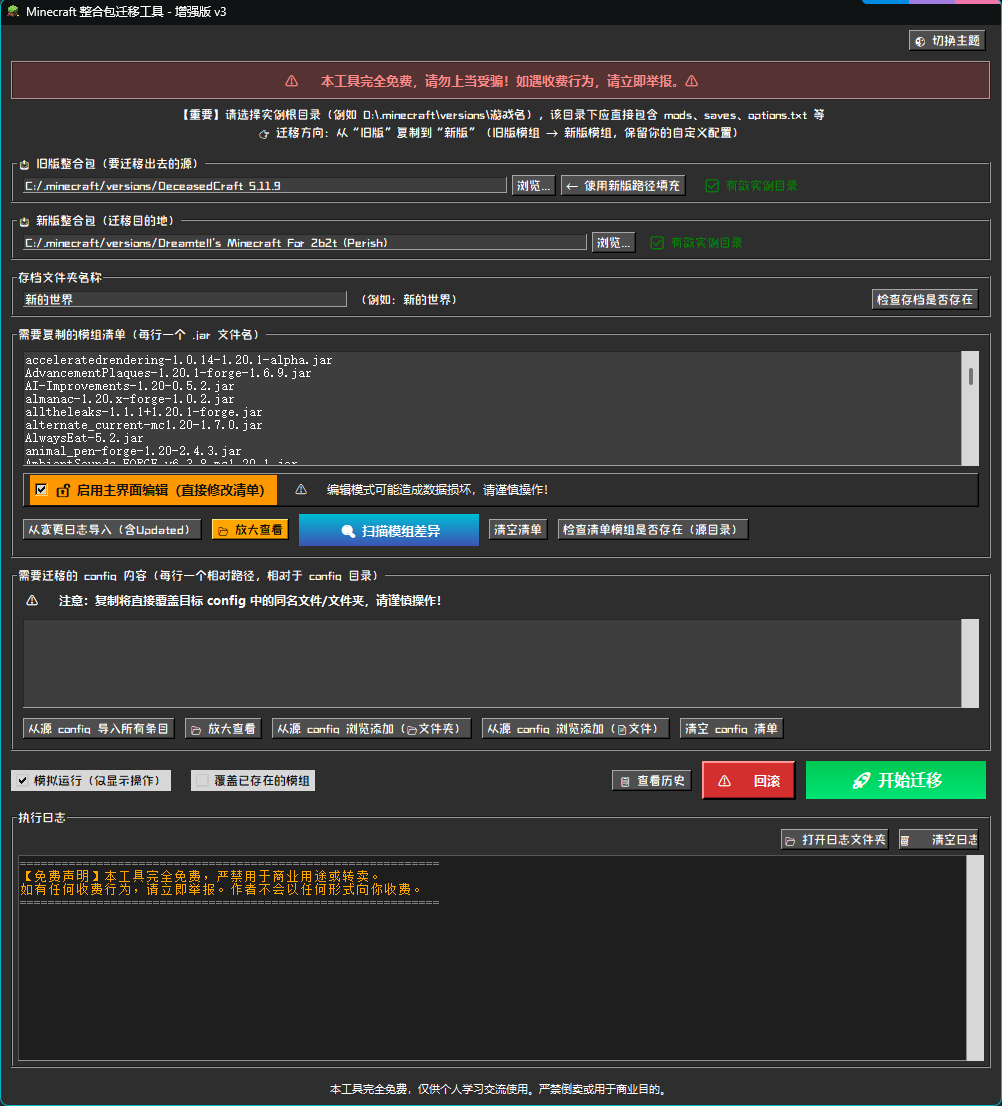
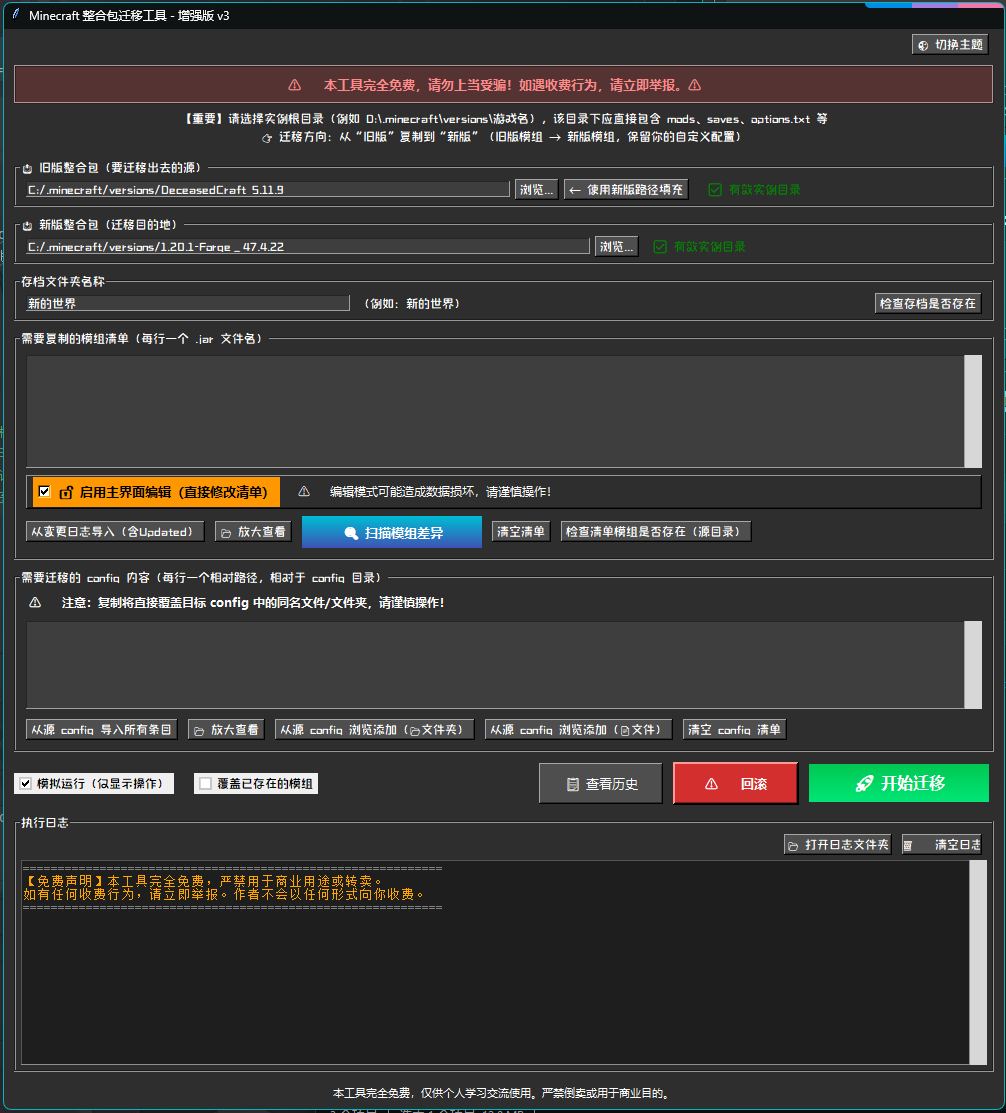
更新

Changed region(s): [[0.0, 0.0, 1.0, 1.0]]

diff --git a/README.md b/README.md
@@ -5,7 +5,7 @@
 [![GitHub issues](https://img.shields.io/github/issues/Dreamtell/Minecraft-Migration-Tool)](https://github.com/Dreamtell/Minecraft-Migration-Tool/issues)
 [![GitHub stars](https://img.shields.io/github/stars/Dreamtell/Minecraft-Migration-Tool)](https://github.com/Dreamtell/Minecraft-Migration-Tool/stargazers)
 
-**版本：v3.3** · 开源 · 免费 · 纯中文界面
+**版本：v3.4** · 开源 · 免费 · 纯中文界面
 
 > 一款用于在不同 Minecraft 整合包实例之间迁移 **模组、配置文件、存档和设置** 的图形化工具。  
 > 由 Dreamtell 与 AI DeepSeek 协作完成，源码完全开源。
